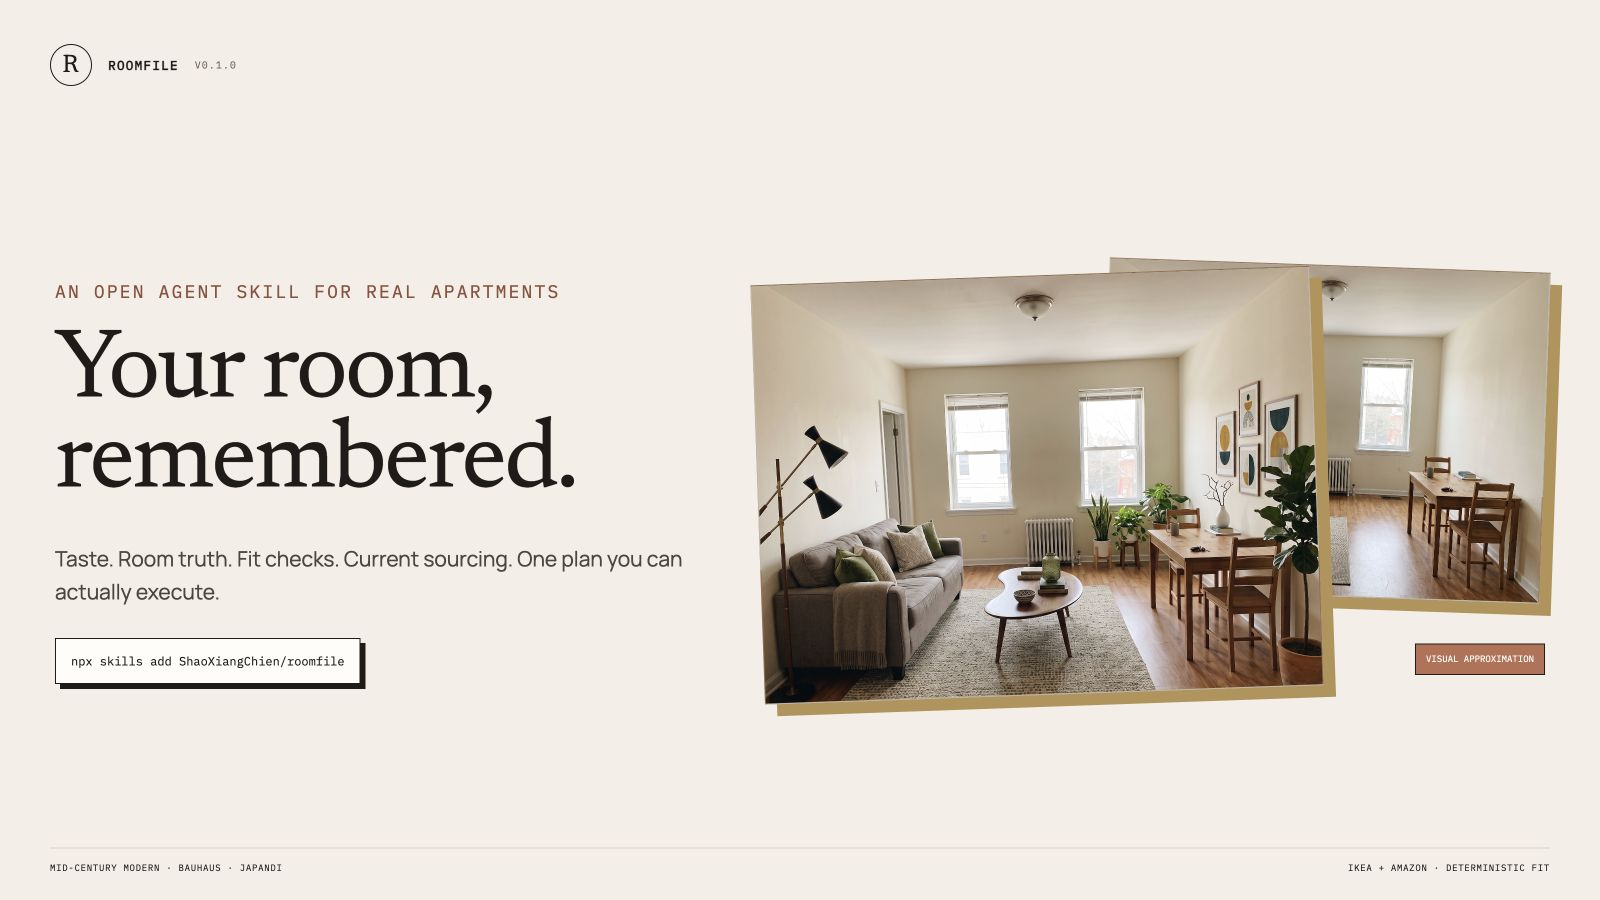
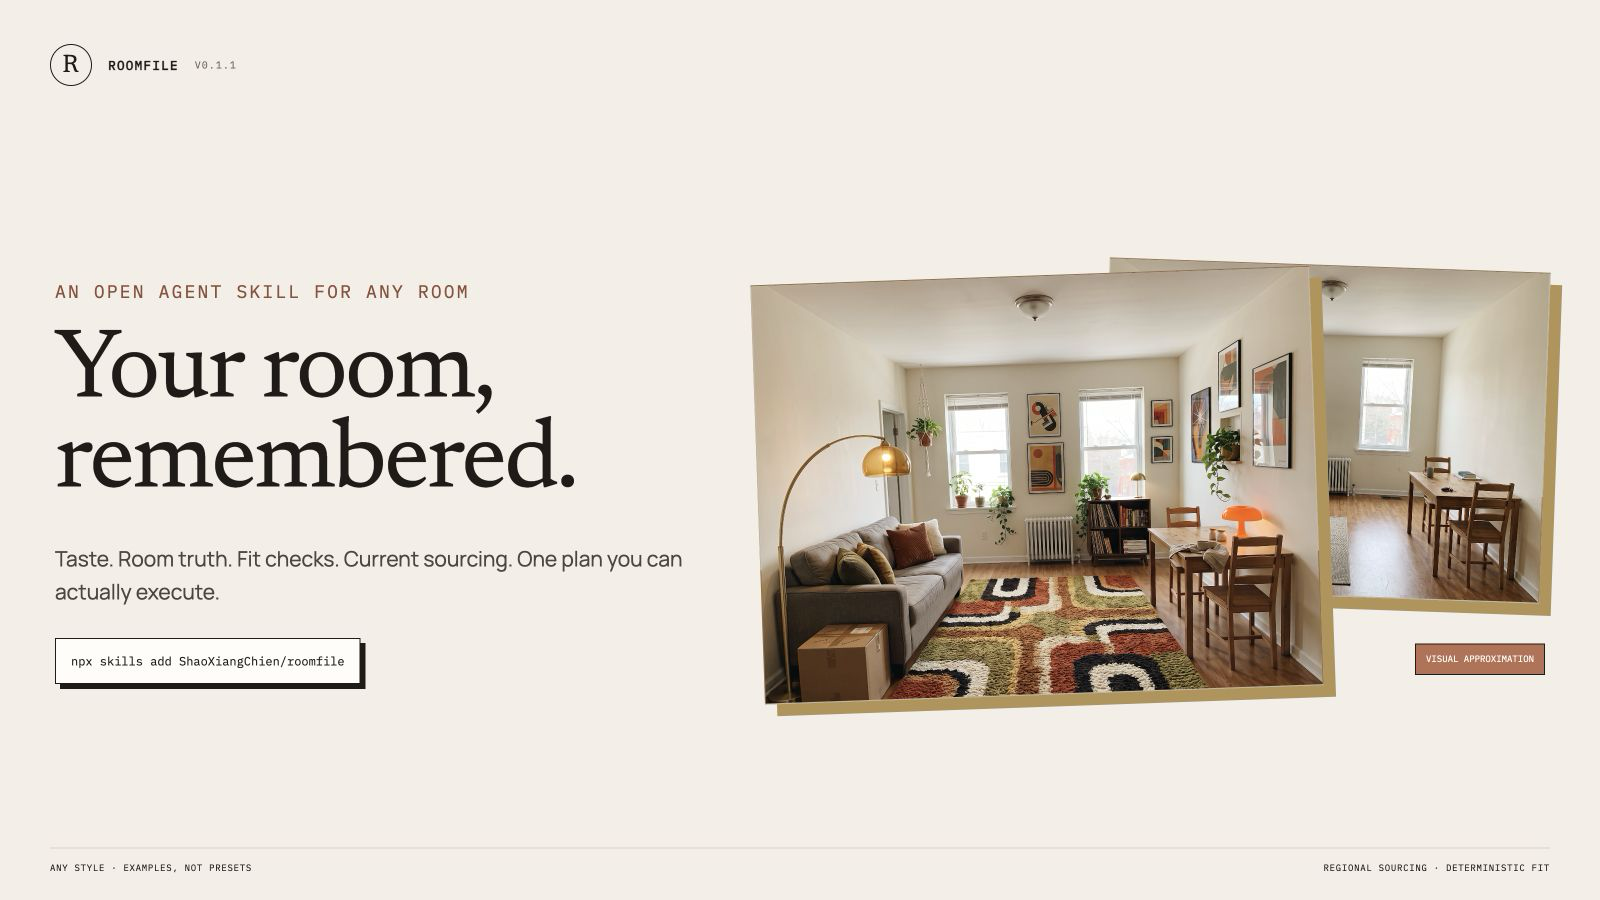
feat: refresh launch assets for eclectic mid-century

Changed region(s): [[0.4688, 0.3733, 0.8438, 0.7778], [0.2188, 0.3111, 0.3438, 0.3422]]

diff --git a/website/app/launch-kit/page.tsx b/website/app/launch-kit/page.tsx
@@ -62,7 +62,7 @@ const workflow = [
     number: "03 / 05",
     kicker: "$roomfile explore",
     title: "Compare real alternatives.",
-    body: "Three directions resolve the same room truth and style evidence in deliberately different ways.",
+    body: "Roomfile derives three directions by default from the same room truth and your style evidence—not a fixed catalog.",
     accent: "brass",
   },
   {

diff --git a/launch/COPY.md b/launch/COPY.md
@@ -1,4 +1,4 @@
-# Roomfile v0.1.0 launch copy
+# Roomfile v0.1.1 launch copy
 
 Edit dates, links, and any generated-image notes before publishing.
 
@@ -10,9 +10,10 @@ furniture that can actually be bought.
 
 I built Roomfile: an open-source interior-design skill for Codex.
 
-It keeps your room and taste in a local project, explores real alternatives,
-checks furniture fit with deterministic geometry, and turns the selected idea
-into dated IKEA/Amazon sourcing and a phased plan.
+It works with any room and any style: keeping room truth and taste in a local
+project, exploring real alternatives, checking furniture fit with deterministic
+geometry, and turning the selected idea into dated regional sourcing and a
+phased plan.
 
 No subscription. Apache-2.0.
 
@@ -23,7 +24,7 @@ No subscription. Apache-2.0.
 ## LinkedIn
 
 Most AI interior-design demos end with a beautiful image. Decorating an actual
-apartment starts after that image.
+room starts after that image.
 
 The model has to remember the room, fixed architecture, rental restrictions,
 existing furniture, budget, and the decisions made over many rounds. It also has
@@ -35,10 +36,10 @@ It is an open-source Agent Skill, tested in Codex, that:
 
 - turns inspiration into specific taste evidence;
 - captures a canonical room once;
-- explores Mid-century Modern, Bauhaus, Japandi, or other distinct directions;
+- derives distinct directions from your evidence, without a fixed style catalog;
 - keeps visual rendering separate from deterministic fit checks;
-- sources dated IKEA/Amazon candidates with identifiers, sellers, dimensions,
-  and availability evidence;
+- sources dated regional candidates with identifiers, sellers, dimensions, and
+  availability evidence—the public example happens to use IKEA US and Amazon US;
 - creates a phased shopping and installation plan.
 
 Personal room files remain local and gitignored. Roomfile has no subscription;
@@ -48,7 +49,7 @@ Apache-2.0: [GITHUB_URL]
 
 ## Reddit
 
-**Title:** I built an open-source Codex skill for apartment decorating that
+**Title:** I built an open-source Codex skill for room decorating that
 remembers the room and checks furniture fit
 
 I kept running into the same problem with AI room generators: the first image
@@ -60,16 +61,18 @@ Roomfile stores the work in a private local project:
 
 1. taste evidence from links/screenshots;
 2. canonical room photos, measurements, openings, and rental constraints;
-3. three deliberately different concepts;
+3. three deliberately different concepts by default, with arbitrary styles and
+   additional rounds supported;
 4. refinement with locked architecture and inventory;
 5. deterministic scaled layout and collision/clearance checks;
 6. current product sourcing with IKEA article numbers, Amazon ASINs, seller,
    dimensions, retrieval date, and ZIP-delivery evidence;
 7. phased execution and budget plan.
 
-The public demo is a completely fictional US rental with Mid-century Modern,
-Bauhaus, and Japandi options. Renders are always labeled visual approximations;
-only the geometry checker can claim fit.
+The public demo is a completely fictional apartment. Eclectic Mid-century
+Modern, Bauhaus, and Japandi demonstrate three possible directions; they are
+examples, not presets. Renders are always labeled visual approximations; only
+the geometry checker can claim fit.
 
 It is Apache-2.0 and tested in Codex:
 
@@ -85,7 +88,7 @@ retailer verification policy.
 **Title:** Show HN: Roomfile – an open-source interior-design skill that
 remembers constraints and checks furniture fit
 
-Roomfile is a file-based Agent Skill for long-running apartment decorating
+Roomfile is a file-based Agent Skill for long-running room decorating
 projects.
 
 The problem: existing AI tools generate attractive rooms but forget constraints
@@ -98,7 +101,7 @@ dependency-free deterministic Node checker. Sourcing records IKEA article
 numbers, Amazon ASINs, seller/manufacturer distinctions, dimensions, price,
 availability, ZIP delivery result, and retrieval date.
 
-The repository includes a fictional US rental example, a static docs site, and
+The repository includes a fictional apartment example, a static docs site, and
 no accounts, analytics, affiliate links, checkout, or subscription.
 
 Apache-2.0, Codex-first:

diff --git a/launch/ALT-TEXT.md b/launch/ALT-TEXT.md
@@ -4,25 +4,28 @@
 
 Warm editorial graphic for Roomfile. On an ivory background, the headline
 “Your room, remembered.” sits beside two views of the same fictional rental
-living room: an undecorated source and a warm Mid-century Modern direction.
-Small labels note taste, room truth, fit checking, and IKEA/Amazon sourcing.
+living room: an undecorated source and a warm Eclectic Mid-century Modern
+direction.
+Small labels note any style, room truth, deterministic fit, and regional
+sourcing.
 
 ## README hero
 
 Warm editorial banner for Roomfile. The headline “Your room, remembered.” sits
-beside the same fictional US apartment before decorating and after a refined
-Mid-century Modern direction. The windows, floor, sofa, dining table, radiator,
-and camera remain fixed, and a label marks the render as a visual approximation.
+beside the same fictional apartment before decorating and after a refined
+Eclectic Mid-century Modern direction. The windows, floor, sofa, dining table,
+radiator, and camera remain fixed, and a label marks the render as a visual
+approximation.
 
 ## Before/after carousel
 
 1. Sparse fictional rental living/dining room with a warm-gray sofa, oak dining
    table, two protected windows, fixed flooring, radiator, and HVAC register.
-2. Taste evidence cards translate reactions to wood, sculptural light, disciplined
-   color, natural texture, and dislike of decorative clutter.
-3. Three side-by-side visual approximations of the same room in Mid-century
-   Modern, Bauhaus, and Japandi directions.
-4. Selected Mid-century Modern room beside a scaled plan showing product
+2. Taste evidence translates reactions into amber light, walnut, olive and rust,
+   tactile layers, records, books, posters, plants, and dislike of sterile beige.
+3. Three side-by-side visual approximations of the same room in Eclectic
+   Mid-century Modern, Bauhaus, and Japandi directions—examples, not presets.
+4. Selected Eclectic Mid-century Modern room beside a scaled plan showing product
    footprints, entry swing, and radiator clearance.
 5. Final phased shopping plan with dated IKEA products, a rejected Amazon
    candidate, budget reserve, and reminder to recheck current availability.
@@ -33,9 +36,9 @@ and camera remain fixed, and a label marks the render as a visual approximation.
    rental features enter one private project.
 2. “Learn the taste” — inspiration reactions become specific likes, dislikes,
    anti-references, and contradictions.
-3. “Explore real alternatives” — Mid-century Modern, Bauhaus, and Japandi
-   resolve the same evidence differently.
+3. “Explore real alternatives” — Roomfile derives three directions by default
+   from the room and the user’s evidence, without a fixed style catalog.
 4. “Prove fit separately” — an inch-based floor plan checks boundaries,
    overlaps, door swings, circulation, and clearance.
-5. “Turn it into reality” — dated IKEA/Amazon evidence becomes a phased shopping,
-   assembly, placement, styling, and reserve plan.
+5. “Turn it into reality” — dated regional retailer evidence becomes a phased
+   shopping, assembly, placement, styling, and reserve plan.

diff --git a/README.md b/README.md
@@ -124,7 +124,7 @@ Amazon, it preserves the ASIN, seller, shipping result, manufacturer, and
 manufacturer dimensions. Marketplace dimensions must be cross-checked before
 approval.
 
-Roomfile uses no affiliate links in v0.1.0 and never purchases, enters checkout,
+Roomfile uses no affiliate links in v0.1.1 and never purchases, enters checkout,
 contacts a retailer, or communicates externally.
 
 Projects in other regions use their configured local retailers, currency,
@@ -177,7 +177,7 @@ estimates provider cost before a batch.
 
 ## Limitations and safety
 
-Roomfile v0.1.0 supports reversible decorating changes in real rooms. It does
+Roomfile v0.1.1 supports reversible decorating changes in real rooms. It does
 not provide structural, electrical, building-code, contractor, or purchasing
 instructions. It cannot guarantee color, material, comfort, quality, price,
 stock, shipping, or return policy. Recheck current retailer claims and local
